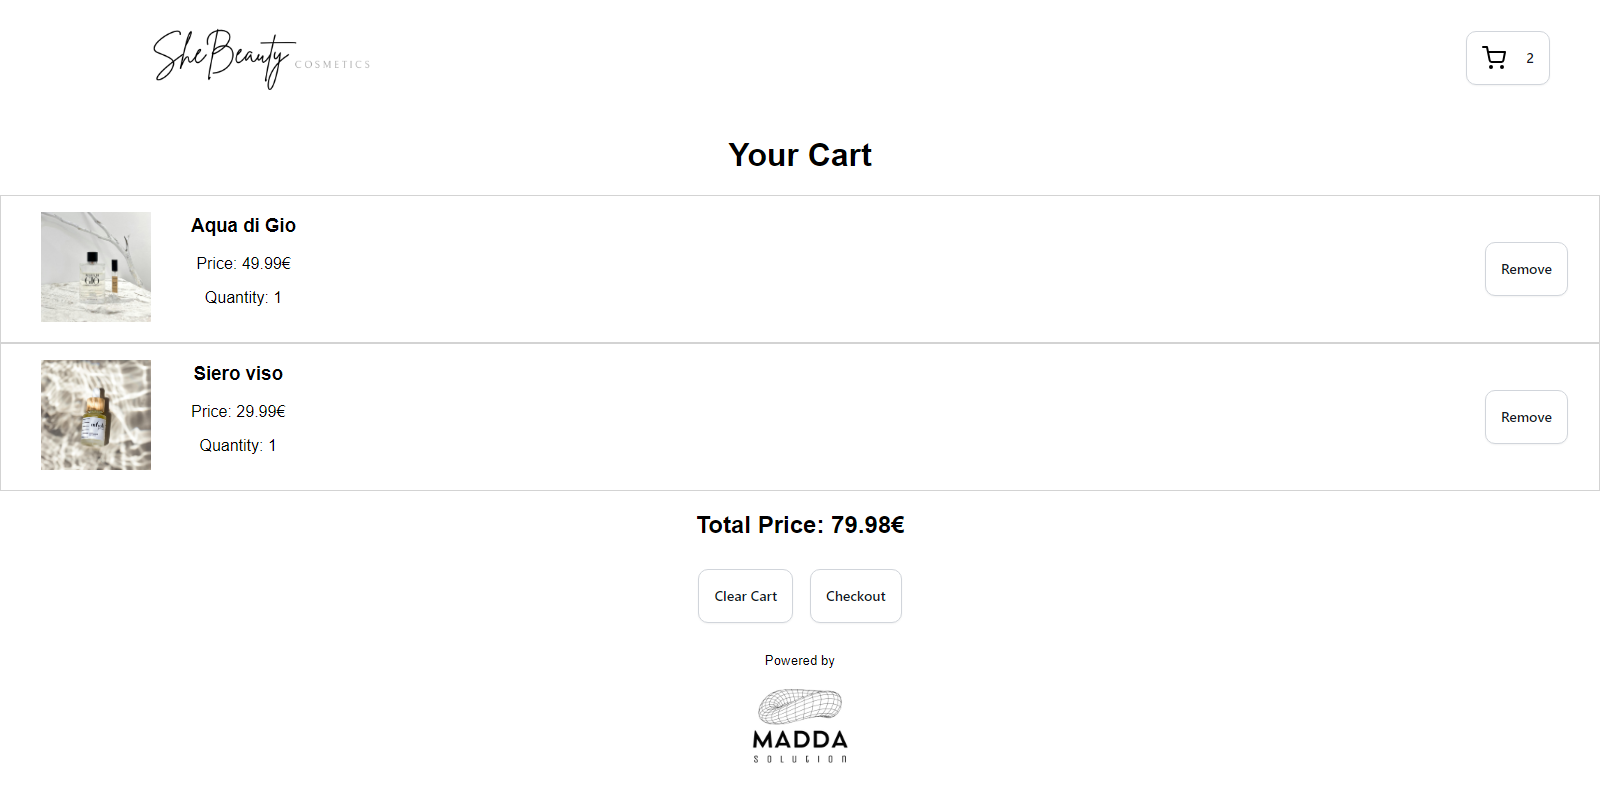
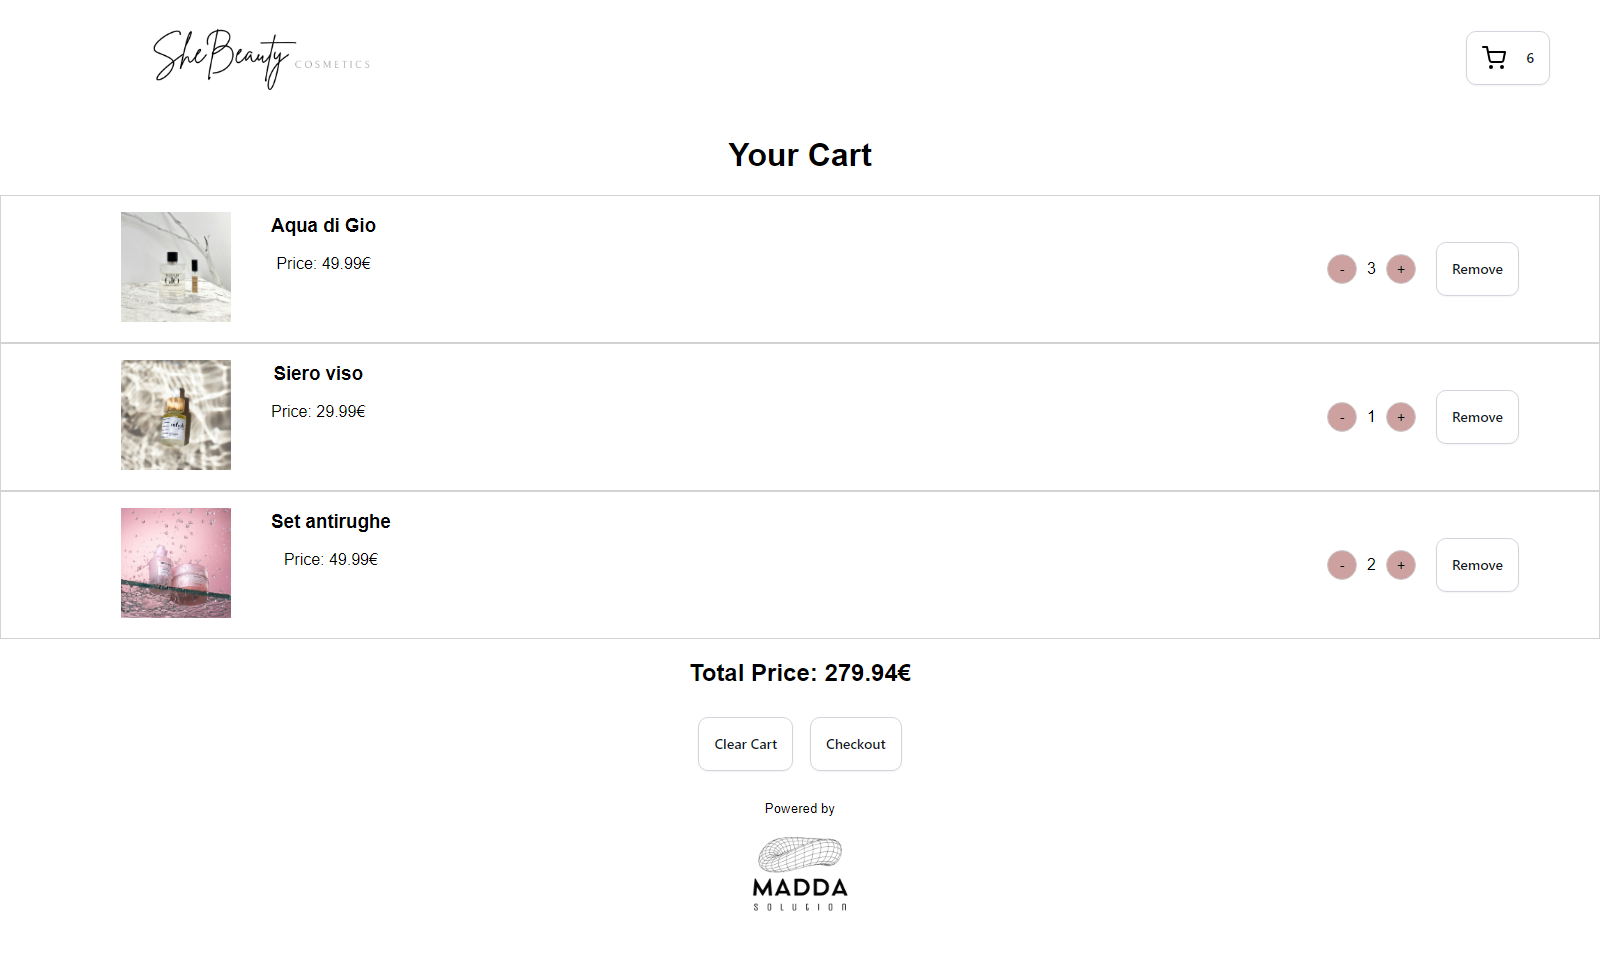
MiniButton e nuovi screenshots

diff --git a/src/componenti/Cart.tsx b/src/componenti/Cart.tsx
@@ -1,16 +1,28 @@
 import { useCart } from "../context/CartContext";
 import { Product } from "../interface/productInterface";
 import { useNavigate } from "react-router-dom";
-import RoundedButton from "./RoundedButton";
+import MiniButton from "./MiniButton";
+import "../css/RoundedButton.css";
 import "../css/Cart.css";
 
+import RoundedButton from "./RoundedButton";
 
 export default function Cart() {
-    const { cart, removeFromCart, clearCart } = useCart();
+    const { cart, removeFromCart, clearCart, updateCartQuantity } = useCart();
     const navigate = useNavigate();
+
     const handleRemoveFromCart = (product: Product) => {
         removeFromCart(product);
     };
+
+    const handleIncreaseQuantity = (product: Product) => {
+        updateCartQuantity(product, 1); // Aumenta la quantità di 1
+    };
+
+    const handleDecreaseQuantity = (product: Product) => {
+        updateCartQuantity(product, -1); // Diminuisci la quantità di 1
+    };
+
     const totalPrice = cart.reduce((acc, item) => acc + item.product.price * item.amount, 0);
 
     return (
@@ -21,7 +33,7 @@ export default function Cart() {
             ) : (
                 <div>
                     {cart.map((item: { product: Product; amount: number }) => (
-                        <div key={item.product.id}>
+                        <div key={item.product.id} className="cart-item">
                             <div className="flex flex-around">
                                 <div className="flex-child">
                                     <figure>
@@ -33,15 +45,21 @@ export default function Cart() {
                                     <div>
                                         <h3>{item.product.name}</h3>
                                         <p>Price: {item.product.price}€</p>
-                                        <p>Quantity: {item.amount}</p>
                                     </div>
                                 </div>
-                                <div className="small-size">
+                                <div className="flex-center quantity-controls">
+                                    <MiniButton
+                                        label="-"
+                                        onClick={() => handleDecreaseQuantity(item.product)}
+                                    />
+                                    <span className="quantity">{item.amount}</span>
+                                    <MiniButton
+                                        label="+"
+                                        onClick={() => handleIncreaseQuantity(item.product)}
+                                    />
                                     <RoundedButton
                                         label="Remove"
-                                        onClick={() =>
-                                            handleRemoveFromCart(item.product)
-                                        }
+                                        onClick={() => handleRemoveFromCart(item.product)}
                                     />
                                 </div>
                             </div>
@@ -54,18 +72,17 @@ export default function Cart() {
 
                     <div className="flex medium-size">
                         <RoundedButton
+                            className="RoundedButton"
                             label="Clear Cart"
                             onClick={clearCart}
                         />
                         <RoundedButton
                             label="Checkout"
                             onClick={() => {
-                                navigate("/checkout")
-                                }}
+                                navigate("/checkout");
+                            }}
                         />
                     </div>
-
-
                 </div>
             )}
         </div>

diff --git a/src/context/CartContext.tsx b/src/context/CartContext.tsx
@@ -1,67 +1,3 @@
-// import React, { useContext, useState } from 'react';
-// import Cart from "../interface/cardInterface"; 
-// import { Product } from '../interface/productInterface';
-// import { error } from 'console';
-
-// interface CartContextProps { 
-//     cart:  Cart[];
-//     totalItems: number;
-//     addToCart: (product: Product, amount:number) => void;
-// }
-
-// /*creazione del contesto cartcontext inizializzato con undefine*/
-// const CartContext = React.createContext<CartContextProps|undefined>(undefined);
-
-// //creazione del componente cart provider che gestisce lo stato del carrello
-// //children solo i componenti figli che verranno avvolti nel componente cart provider 
-// export const CartProvider = ( { children }: { children: React.ReactNode} ) => {
-//     const [cart, setCart] = useState<Cart[]>([]); //*DEFINISCO LO STATO DEL CARRELLO
-
-//     //*add to cart es una funzione che accetta un oggetto prodotto  una quantit* e aggiorna lo stato del carrello//*
-//     const addToCart = (product: Product, amount: number) => {
-
-//     setCart ( (prevCart) =>  {
-//         const existingCartItem = prevCart.find ((item) => item.product.id === product.id );
-//         let updatedCart;
-//         if (existingCartItem) { 
-//         updatedCart = prevCart.map((item)  =>  
-//         item.product.id === product.id
-//         ? { ...item, amount: item.amount + amount }
-//         : item
-//         );
-//         } else { 
-//             updatedCart = [ ...prevCart, { product, amount }];
-//         }
-//     return updatedCart;
-
-//     }) ;
-
-//     };
-
-//     const totalItems = cart.reduce ((acc, item) => acc + item.amount, 0);
-    
-//     return ( 
-
-//         <CartContext.Provider value={{ cart, totalItems, addToCart}}>
-//             {children}
-//         </CartContext.Provider>
-
-
-
-//     );
-
-// };
-
-
-// export const useCart = (): CartContextProps => {
-//     const context = useContext (CartContext); 
-//     if (!context) { 
-//     throw new Error ('useCart must be used within a CartProvider');
-//     }
-
-//     return context;
-// };
-
 import React, { useContext, useState } from 'react';
 import Cart from "../interface/cardInterface"; 
 import { Product } from '../interface/productInterface';
@@ -72,6 +8,7 @@ interface CartContextProps {
     addToCart: (product: Product, amount: number) => void;
     removeFromCart: (product: Product) => void;
     clearCart: () => void;
+    updateCartQuantity: (product: Product, amount: number) => void;
 }
 
 const CartContext = React.createContext<CartContextProps | undefined>(undefined);
@@ -104,10 +41,20 @@ export const CartProvider = ({ children }: { children: React.ReactNode }) => {
         setCart([]);
     };
 
+    const updateCartQuantity = (product: Product, amount: number) => {
+        setCart(prevCart => {
+            return prevCart.map(item =>
+                item.product.id === product.id
+                    ? { ...item, amount: item.amount + amount }
+                    : item
+            ).filter(item => item.amount > 0);
+        });
+    };
+
     const totalItems = cart.reduce((acc, item) => acc + item.amount, 0);
 
     return (
-        <CartContext.Provider value={{ cart, totalItems, addToCart, removeFromCart, clearCart }}>
+        <CartContext.Provider value={{ cart, totalItems, addToCart, removeFromCart, clearCart, updateCartQuantity }}>
             {children}
         </CartContext.Provider>
     );

diff --git a/src/css/RoundedButton.css b/src/css/RoundedButton.css
@@ -1,4 +1,4 @@
-button {
+.RoundedButton {
     display: flex;
     gap: 20px;
     padding: 2px 15px;
@@ -24,21 +24,21 @@ button {
     touch-action: manipulation;
 }
 
-button:hover {
+.RoundedButton:hover {
     background-color: rgb(249,250,251);
     box-shadow: rgba(14, 63, 126, 0.04) 0px 0px 0px 1px, rgba(42, 51, 69, 0.04) 0px 1px 1px -0.5px, rgba(42, 51, 70, 0.04) 0px 3px 3px -1.5px, rgba(42, 51, 70, 0.04) 0px 6px 6px -3px, rgba(14, 63, 126, 0.04) 0px 12px 12px -6px, rgba(14, 63, 126, 0.04) 0px 24px 24px -12px;
 }
 
-button:focus {
+.RoundedButton:focus {
     outline: 2px solid transparent;
     outline-offset: 2px;
 }
 
-button:focus-visible {
+.RoundedButton:focus-visible {
     box-shadow: none;
 }
 
 
-button img{
+.RoundedButton img{
     max-width: 30px;
 }

diff --git a/src/css/Cart.css b/src/css/Cart.css
@@ -1,11 +1,13 @@
 .flex{
     display: flex;
     align-items: center;
+    box-sizing: border-box;
 }
 
 .flex-around{
     justify-content: space-around;
     border: 1px solid lightgray;
+    padding: 0px 5%;
 
 }
 
@@ -25,4 +27,28 @@
 .medium-size {
     width: 220px;
     margin: 0 auto;
+}
+
+
+.flex-center {
+    display: flex;
+    align-items: center;
+}
+
+.quantity-controls {
+    display: flex;
+    align-items: center;
+}
+
+.quantity {
+    margin: 0 10px;
+    font-size: 16px;
+}
+
+.remove-button {
+    padding-left: 10px;
+}
+
+.quantity-controls .RoundedButton{
+    margin-left: 20px;
 }

diff --git a/src/componenti/MiniButton.tsx b/src/componenti/MiniButton.tsx
@@ -1,0 +1,17 @@
+import React from "react";
+import "../css/MiniButton.css";
+
+interface MiniButtonProps {
+    label: string;
+    onClick: () => void;
+}
+
+const MiniButton: React.FC<MiniButtonProps> = ({ label, onClick }) => {
+    return (
+        <button className="mini-button" onClick={onClick}>
+            {label}
+        </button>
+    );
+};
+
+export default MiniButton;

diff --git a/src/css/MiniButton.css b/src/css/MiniButton.css
@@ -1,0 +1,15 @@
+.mini-button {
+    /* Aggiungi qui gli stili specifici per MiniButton */
+    background-color: #cea1a1;
+    border: 1px solid #ccc;
+    border-radius: 50%;
+    height: 30px;
+    width: 30px;
+    padding: 0;
+    font-size: 14px;
+    cursor: pointer;
+}
+
+.mini-button:hover {
+    background-color: #e0e0e0;
+}

diff --git a/src/componenti/RoundedButton.tsx b/src/componenti/RoundedButton.tsx
@@ -21,6 +21,7 @@ export default function RoundedButton(
     return(
         <button
         style ={{ borderRadius: "10px"}}
+        className="RoundedButton"
         onClick= {(e) =>{
             e.preventDefault();
             onClick();
